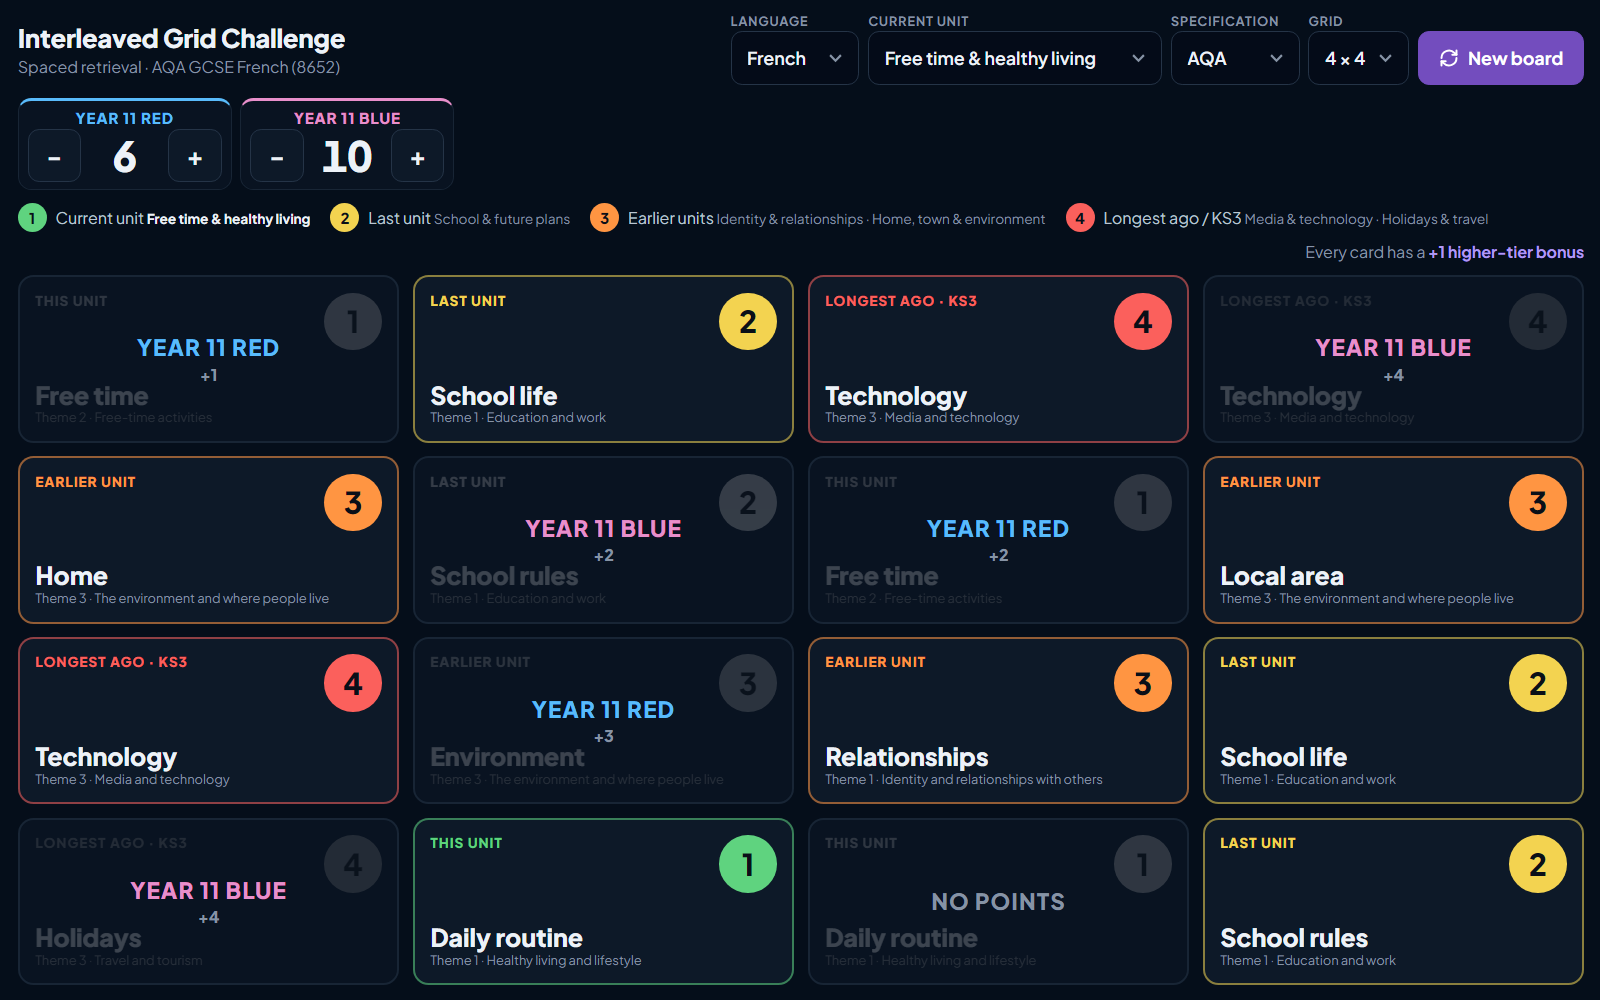
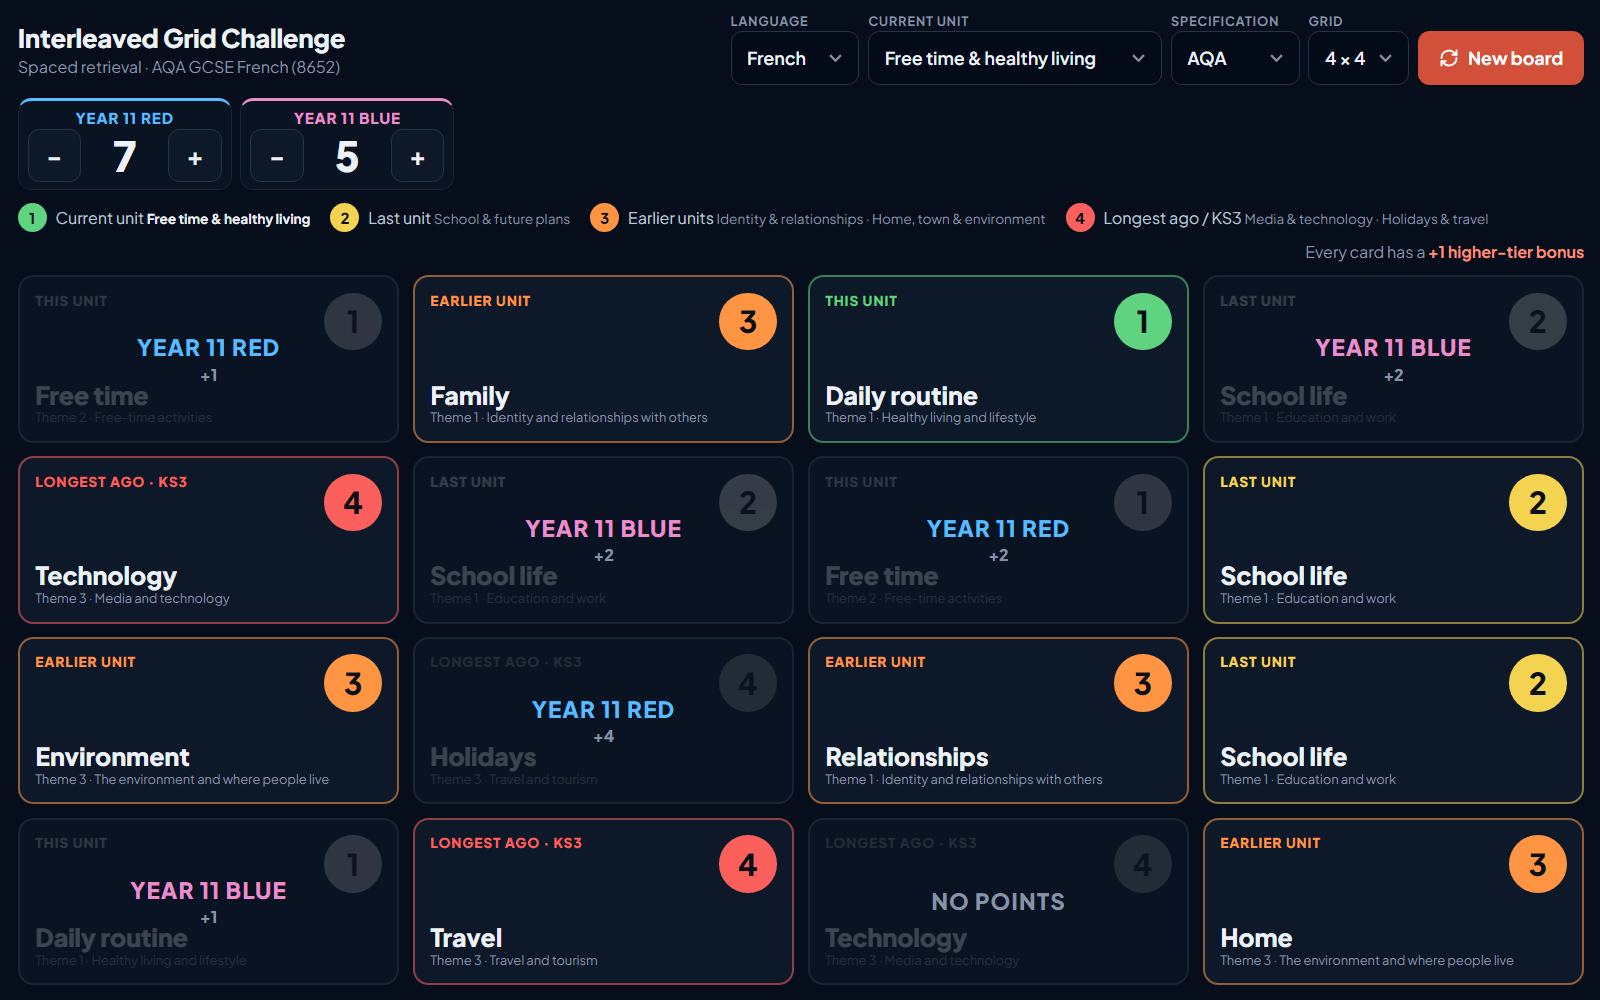
Interleaved Grid: recolour to the language site's coral
Swap the violet accent for Savage Language Tools' coral, as on the
Connect 4 games, and refresh its catalogue screenshot to match.

diff --git a/languages/games/interleaved-grid.html b/languages/games/interleaved-grid.html
@@ -21,9 +21,10 @@
     --text: var(--sst-text, #edf2f8);
     --body: var(--sst-text-body, #c3cdd9);
     --muted: var(--sst-text-muted, #8693a5);
-    --accent: var(--sst-violet, #b199f4);
-    --accent-btn: var(--sst-violet-btn, #734dbe);
-    --accent-soft: var(--sst-violet-soft, #2c2346);
+    /* Savage Language Tools' coral, as on the Connect 4 games. */
+    --accent: var(--sst-coral, #f8907c);
+    --accent-btn: var(--sst-coral-btn, #d24f39);
+    --accent-soft: var(--sst-coral-soft, #4b1e16);
     --font: var(--sst-font, system-ui, -apple-system, 'Segoe UI', sans-serif);
 
     /* The four recency tiers. */
